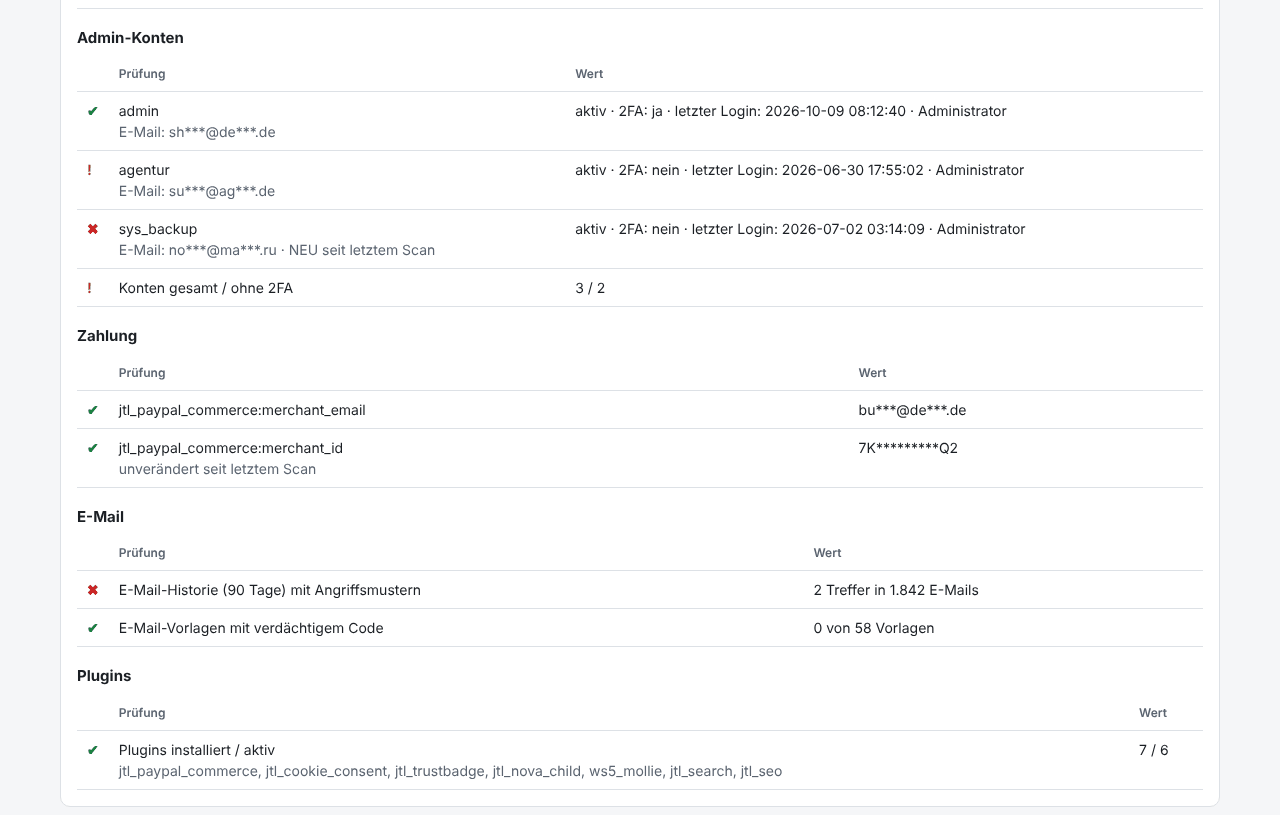
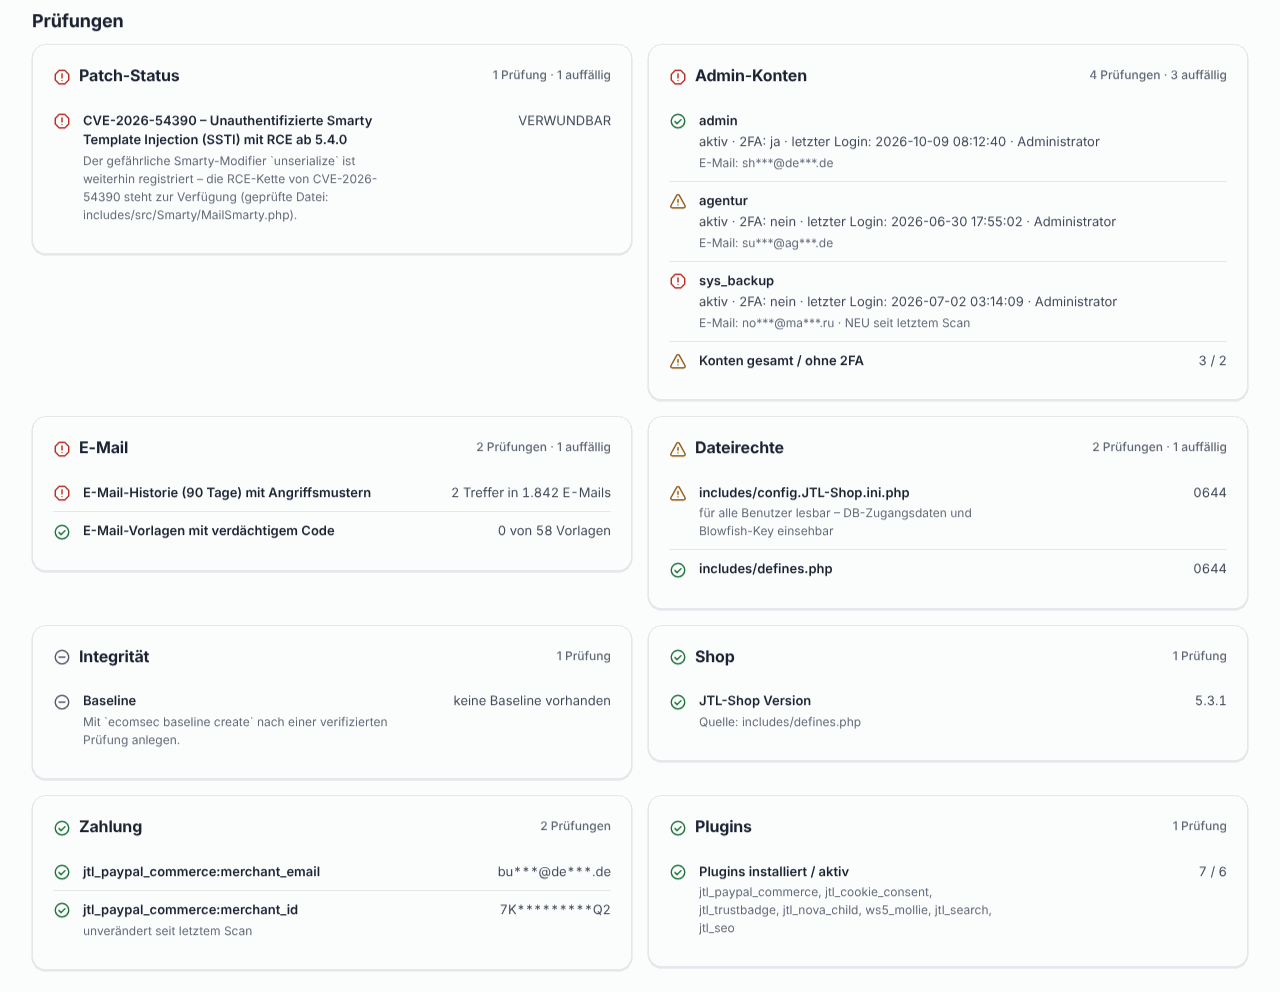
Doku: neue Dashboard-Screenshots und Beschreibung der Dashboard-API
- docs/img: Übersicht (hell), Befunde mit Detailansicht (dunkel),
  Shop-Integrität, Admin-Konten (Beispieldaten), Empfehlungen (dunkel)
  aus dem Demo-Shop neu aufgenommen
- README: Bildunterschriften im Abschnitt Screenshots angepasst
- ARCHITECTURE: Aufbau des Web-Dashboards und seine Endpunkte

Claude-Session: https://claude.ai/code/session_01AWwAumUQXp2hAgwtpXT79q

diff --git a/README.md b/README.md
@@ -169,17 +169,20 @@ der Shop abgeschaltet wird), **Sofortmaßnahmen**, **Kompromittierungs-Prüfung*
 <p align="center"><img src="docs/img/terminal.png" alt="Scan-Ergebnis im Terminal" width="92%"></p>
 <p align="center"><i>Scan im Terminal: Ampel, Zusammenfassung und Befunde mit Beweisausschnitten.</i></p>
 
-<p align="center"><img src="docs/img/dashboard.png" alt="Dashboard – Security Scan" width="92%"></p>
-<p align="center"><i>Dashboard, Tab „Security Scan“: Filter, Gruppierung nach Verzeichnis, Befunde einzeln oder gesammelt als unbedenklich markieren.</i></p>
+<p align="center"><img src="docs/img/dashboard.png" alt="Dashboard – Übersicht mit Ampel, Score und Änderungen seit dem letzten Scan" width="92%"></p>
+<p align="center"><i>Dashboard, Übersicht: Ampel, Sicherheitsniveau mit Note und den größten Abzügen, Kennzahlen im Vergleich zum letzten Scan, Änderungen seit dem letzten Scan und die nächsten Schritte.</i></p>
+
+<p align="center"><img src="docs/img/dashboard_dark.png" alt="Dashboard – Befunde mit Detailansicht, dunkles Design" width="92%"></p>
+<p align="center"><i>Befunde im dunklen Design: Facettenfilter und Suche, Detailansicht mit Beweisen, KI-Bewertung und verknüpften Empfehlungen; einzeln, je Verzeichnis oder je Regel als unbedenklich markieren.</i></p>
 
 <p align="center"><img src="docs/img/integrity.png" alt="Dashboard – Shop-Integrität" width="92%"></p>
-<p align="center"><i>Tab „Shop-Integrität“: bekannte Schwachstellen mit Begründung des Patch-Status, Version, Baseline, Dateirechte.</i></p>
+<p align="center"><i>Shop-Integrität: Installation, bekannte Schwachstellen mit Begründung des Patch-Status und die Prüfungen nach Bereichen – Auffälliges zuerst.</i></p>
 
-<p align="center"><img src="docs/img/integrity_accounts.png" alt="Shop-Integrität – Admin-Konten, PayPal, E-Mail" width="92%"></p>
-<p align="center"><i>Admin-Konten mit 2FA-Status, PayPal-Empfänger, E-Mail-Historie und Plugins (Beispieldaten).</i></p>
+<p align="center"><img src="docs/img/integrity_accounts.png" alt="Shop-Integrität – Admin-Konten, Zahlung, E-Mail, Plugins" width="92%"></p>
+<p align="center"><i>Admin-Konten mit 2FA-Status, PayPal-Empfänger, E-Mail-Historie, Dateirechte und Plugins (Beispieldaten).</i></p>
 
-<p align="center"><img src="docs/img/recommendations.png" alt="Dashboard – Handlungsempfehlungen, dunkles Design" width="92%"></p>
-<p align="center"><i>Tab „Handlungsempfehlungen“ im dunklen Design: priorisierte Checkliste mit Verweis auf die auslösenden Befunde.</i></p>
+<p align="center"><img src="docs/img/recommendations.png" alt="Dashboard – Empfehlungen, dunkles Design" width="92%"></p>
+<p align="center"><i>Empfehlungen im dunklen Design: priorisierte Checkliste zum Abhaken mit Verweisen auf die auslösenden Befunde.</i></p>
 
 ---
 

diff --git a/docs/ARCHITECTURE.md b/docs/ARCHITECTURE.md
@@ -133,3 +133,22 @@ Benachrichtigungen (`ecomsec diff`, `ecomsec watch`, Crate `ecomsec-notify`,
 [CI.md](CI.md#sicherheitsniveau-score); fehlt in älteren Reports und wird dann beim Lesen berechnet). Der HTML-Report und das
 Web-Dashboard rendern dasselbe JSON; `--format json` ist daher die stabile Schnittstelle für
 Monitoring und Weiterverarbeitung.
+
+## Web-Dashboard
+
+`ecomsec serve` (Modul `crates/ecomsec-cli/src/web`) liefert eine statische App aus
+`crates/ecomsec-cli/assets/app/` – `index.html`, `app.css`, `app.js` (ES2020 ohne Framework,
+ohne Build-Schritt, ohne externe Ressourcen; per `include_str!` im Binary). Design-Tokens
+(Abstände, Radien, Schriftgrößen, Status- und Schweregradfarben) stehen als CSS-Variablen am
+Anfang von `app.css`, helles und dunkles Design inklusive. Alle Daten kommen aus der lokalen API
+(bei `--auth-token` mit Header `X-Auth-Token` oder `?token=`):
+
+| Endpunkt | Inhalt |
+|---|---|
+| `GET /api/report`, `GET /api/report/export?format=json\|html\|markdown\|sarif\|junit\|text` | aktueller Report bzw. Download in einem CLI-Format |
+| `GET /api/status`, `POST /api/scan` | Scan-Fortschritt, Version, Scan-Optionen; Scan starten (optional `{online, skip_remote, reference_date, time_budget}`) |
+| `GET /api/findings/{id}`, `POST /api/findings/accept`, `POST /api/findings/unaccept` | Befund mit verknüpften Empfehlungen und Akzeptanz; Risikoakzeptanz |
+| `GET /api/diff`, `GET /api/history`, `GET /api/archive`, `GET /api/archive/{stamp}` | Änderungen seit dem letzten Scan, Verlauf, archivierte Reports |
+| `GET /api/audit`, `POST /api/baseline` | letztes KI-Audit; Baseline erzeugen |
+
+Der statische HTML-Export (`--format html`) ist davon unabhängig.
